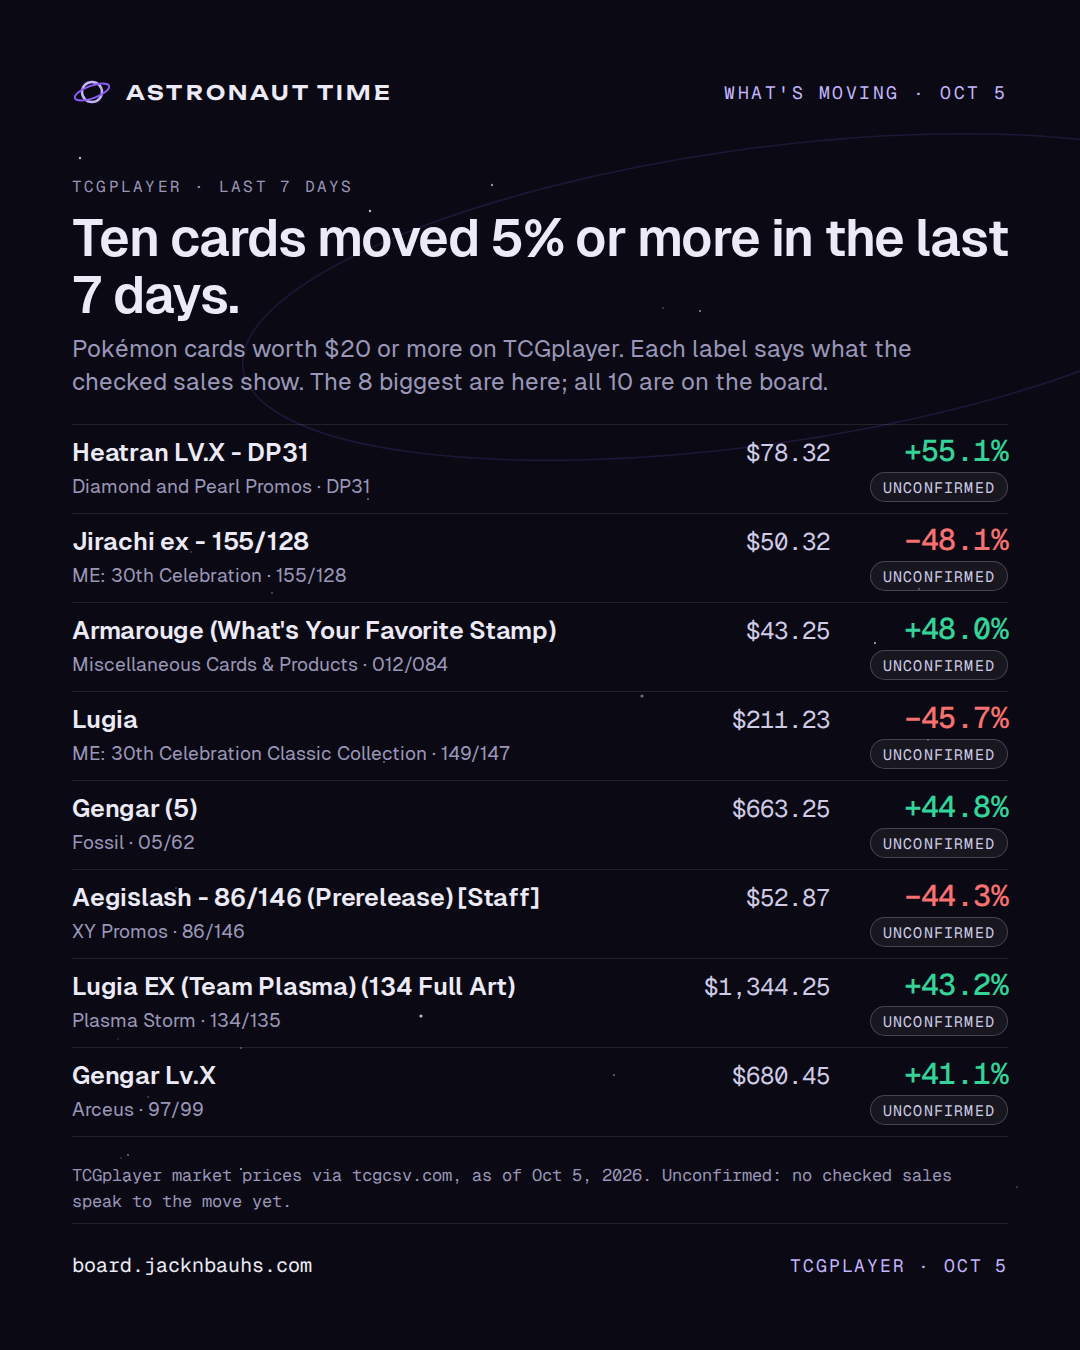
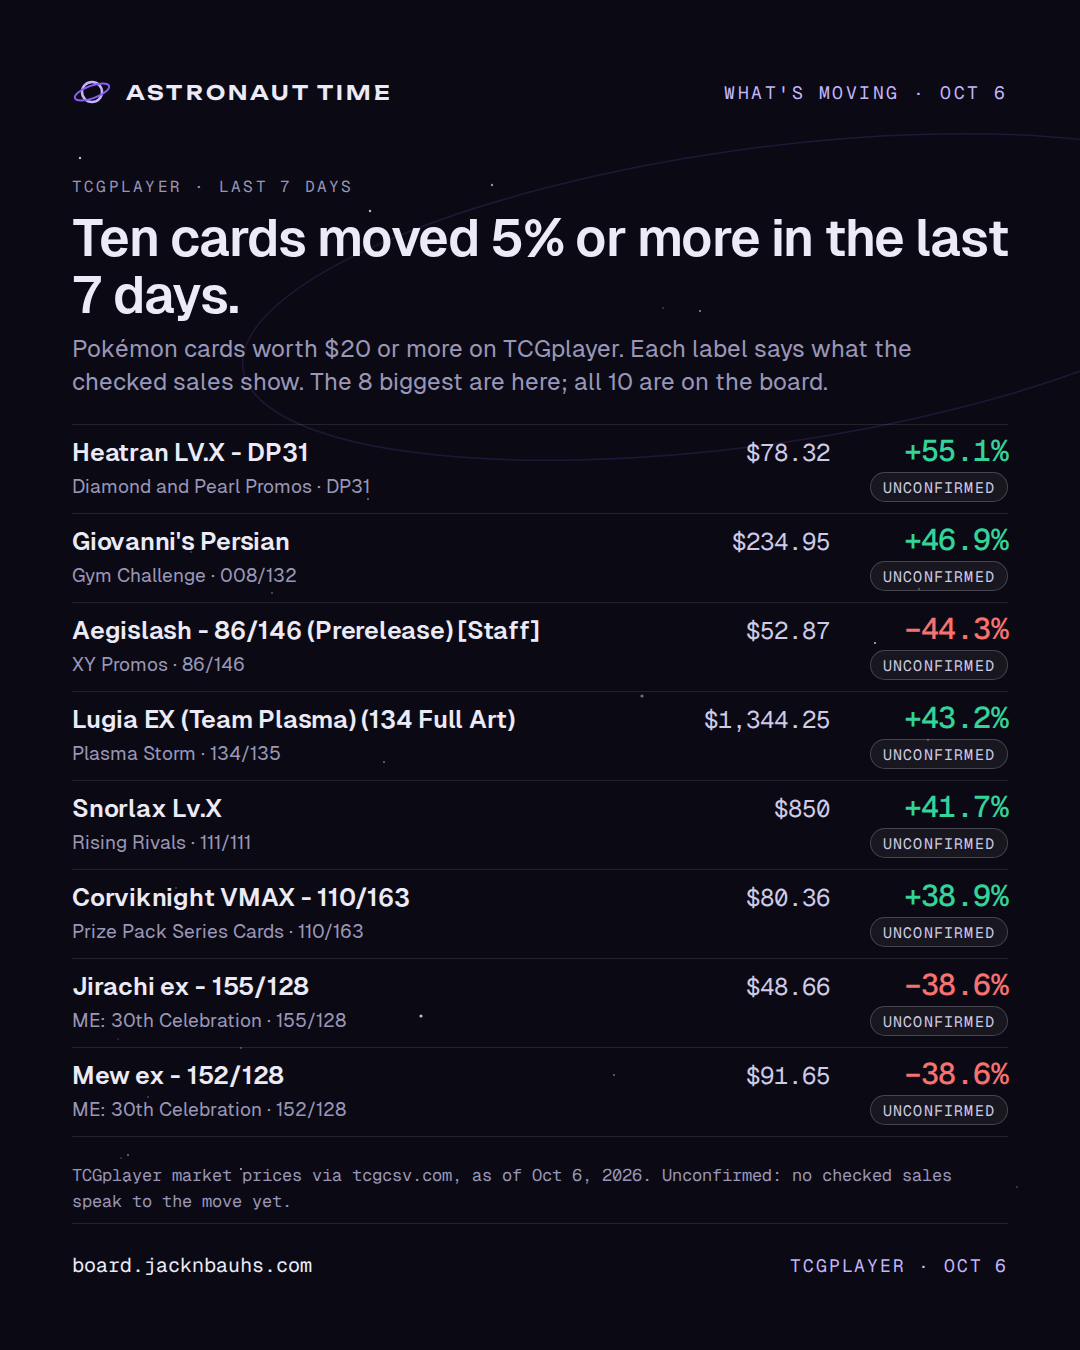
Share kit: render 2026-10-07

diff --git a/card.html b/card.html
@@ -10,14 +10,14 @@
 <meta property="og:url" content="https://board.jacknbauhs.com/card.html">
 <meta property="og:type" content="website">
 <meta property="og:site_name" content="Astronaut Time">
-<meta property="og:image" content="https://board.jacknbauhs.com/assets/og.png?v=2026-10-06">
+<meta property="og:image" content="https://board.jacknbauhs.com/assets/og.png?v=2026-10-07">
 <meta property="og:image:width" content="1200">
 <meta property="og:image:height" content="630">
 <meta property="og:image:alt" content="Mission Control by Astronaut Time: the card market, with the fake sales taken out.">
 <meta name="twitter:card" content="summary_large_image">
 <meta name="twitter:title" content="Card · Mission Control · Astronaut Time">
 <meta name="twitter:description" content="The card market, with the fake sales taken out.">
-<meta name="twitter:image" content="https://board.jacknbauhs.com/assets/og.png?v=2026-10-06">
+<meta name="twitter:image" content="https://board.jacknbauhs.com/assets/og.png?v=2026-10-07">
 <meta name="theme-color" content="#0B0A14">
 <link rel="icon" href="assets/favicon.svg" type="image/svg+xml">
 <link rel="preconnect" href="https://fonts.googleapis.com">

diff --git a/404.html b/404.html
@@ -10,14 +10,14 @@
 <meta property="og:url" content="https://board.jacknbauhs.com/">
 <meta property="og:type" content="website">
 <meta property="og:site_name" content="Astronaut Time">
-<meta property="og:image" content="https://board.jacknbauhs.com/assets/og.png?v=2026-10-06">
+<meta property="og:image" content="https://board.jacknbauhs.com/assets/og.png?v=2026-10-07">
 <meta property="og:image:width" content="1200">
 <meta property="og:image:height" content="630">
 <meta property="og:image:alt" content="Mission Control by Astronaut Time: the card market, with the fake sales taken out.">
 <meta name="twitter:card" content="summary_large_image">
 <meta name="twitter:title" content="Mission Control · Astronaut Time">
 <meta name="twitter:description" content="The card market, with the fake sales taken out.">
-<meta name="twitter:image" content="https://board.jacknbauhs.com/assets/og.png?v=2026-10-06">
+<meta name="twitter:image" content="https://board.jacknbauhs.com/assets/og.png?v=2026-10-07">
 <meta name="theme-color" content="#0B0A14">
 <link rel="icon" href="/assets/favicon.svg" type="image/svg+xml">
 <link rel="preconnect" href="https://fonts.googleapis.com">

diff --git a/index.html b/index.html
@@ -10,14 +10,14 @@
 <meta property="og:url" content="https://board.jacknbauhs.com/">
 <meta property="og:type" content="website">
 <meta property="og:site_name" content="Astronaut Time">
-<meta property="og:image" content="https://board.jacknbauhs.com/assets/og.png?v=2026-10-06">
+<meta property="og:image" content="https://board.jacknbauhs.com/assets/og.png?v=2026-10-07">
 <meta property="og:image:width" content="1200">
 <meta property="og:image:height" content="630">
 <meta property="og:image:alt" content="Mission Control by Astronaut Time: the card market, with the fake sales taken out.">
 <meta name="twitter:card" content="summary_large_image">
 <meta name="twitter:title" content="Mission Control · Astronaut Time">
 <meta name="twitter:description" content="The card market, with the fake sales taken out.">
-<meta name="twitter:image" content="https://board.jacknbauhs.com/assets/og.png?v=2026-10-06">
+<meta name="twitter:image" content="https://board.jacknbauhs.com/assets/og.png?v=2026-10-07">
 <meta name="theme-color" content="#0B0A14">
 <link rel="icon" href="assets/favicon.svg" type="image/svg+xml">
 <link rel="preconnect" href="https://fonts.googleapis.com">

diff --git a/share/out/captions.md b/share/out/captions.md
@@ -1,4 +1,4 @@
-# Captions, board data of 2026-10-06
+# Captions, board data of 2026-10-07
 
 One block per image. Caption first, alt text second. Plain facts, the source and the board link; nothing here is a buy.
 
@@ -94,6 +94,6 @@ Alt: Three calls on the record. Number 001: The 30th Celebration Booster Bundle'
 
 ## moving-2026-W41.png
 
-What's moving on TCGplayer, as of Oct 5, 2026. Ten cards moved 5% or more in the last 7 days. Heatran LV.X - DP31 (Diamond and Pearl Promos · DP31): $78.32, +55.1%, unconfirmed. Jirachi ex - 155/128 (ME: 30th Celebration · 155/128): $50.32, −48.1%, unconfirmed. Armarouge (What's Your Favorite Stamp) (Miscellaneous Cards & Products · 012/084): $43.25, +48.0%, unconfirmed. Lugia (ME: 30th Celebration Classic Collection · 149/147): $211.23, −45.7%, unconfirmed. Gengar (5) (Fossil · 05/62): $663.25, +44.8%, unconfirmed. Aegislash - 86/146 (Prerelease) [Staff] (XY Promos · 86/146): $52.87, −44.3%, unconfirmed. Lugia EX (Team Plasma) (134 Full Art) (Plasma Storm · 134/135): $1,344.25, +43.2%, unconfirmed. Gengar Lv.X (Arceus · 97/99): $680.45, +41.1%, unconfirmed. Unconfirmed: no checked sales speak to the move yet. Source: TCGplayer market prices via tcgcsv.com, as of Oct 5, 2026. board.jacknbauhs.com
+What's moving on TCGplayer, as of Oct 6, 2026. Ten cards moved 5% or more in the last 7 days. Heatran LV.X - DP31 (Diamond and Pearl Promos · DP31): $78.32, +55.1%, unconfirmed. Giovanni's Persian (Gym Challenge · 008/132): $234.95, +46.9%, unconfirmed. Aegislash - 86/146 (Prerelease) [Staff] (XY Promos · 86/146): $52.87, −44.3%, unconfirmed. Lugia EX (Team Plasma) (134 Full Art) (Plasma Storm · 134/135): $1,344.25, +43.2%, unconfirmed. Snorlax Lv.X (Rising Rivals · 111/111): $850, +41.7%, unconfirmed. Corviknight VMAX - 110/163 (Prize Pack Series Cards · 110/163): $80.36, +38.9%, unconfirmed. Jirachi ex - 155/128 (ME: 30th Celebration · 155/128): $48.66, −38.6%, unconfirmed. Mew ex - 152/128 (ME: 30th Celebration · 152/128): $91.65, −38.6%, unconfirmed. Unconfirmed: no checked sales speak to the move yet. Source: TCGplayer market prices via tcgcsv.com, as of Oct 6, 2026. board.jacknbauhs.com
 
 Alt: What's moving: the 8 biggest TCGplayer moves in the last 7 days, each with its market price, its change and the label for what checked sales show.
